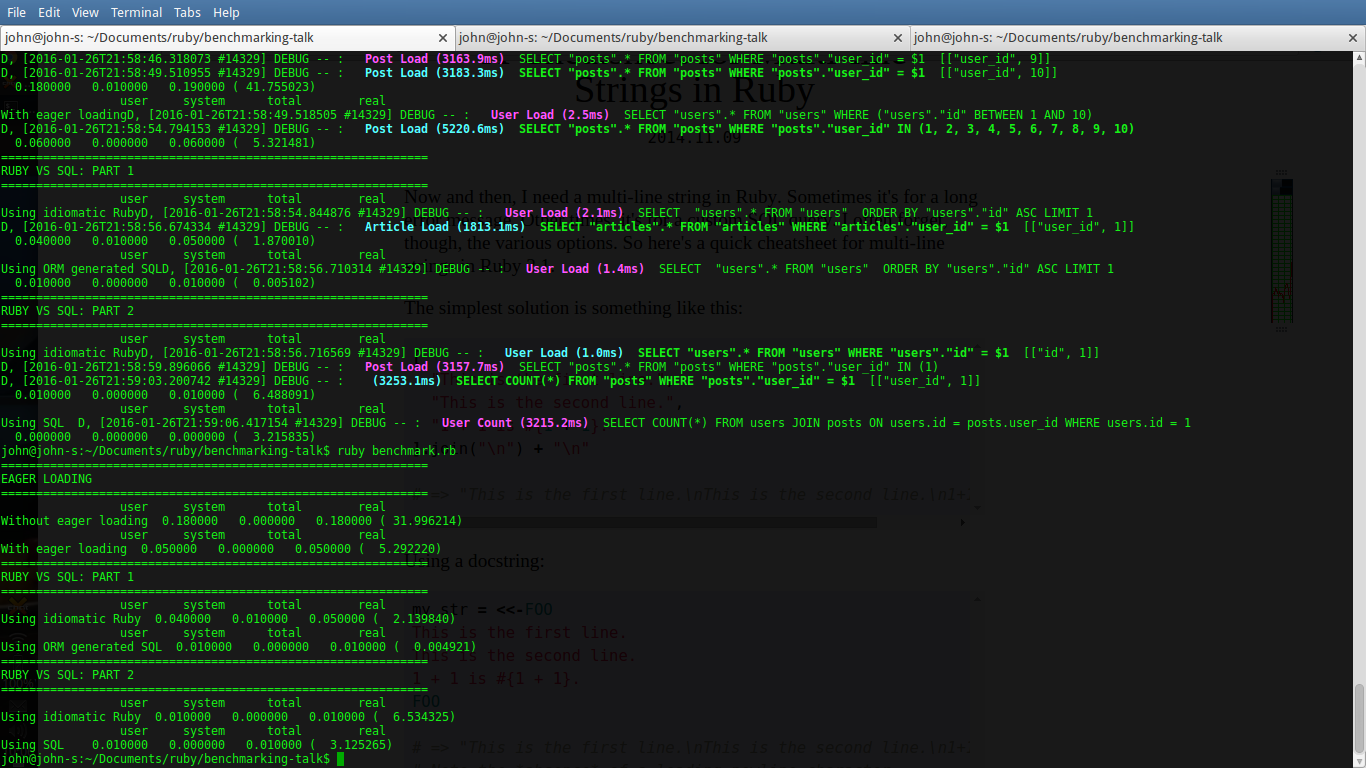
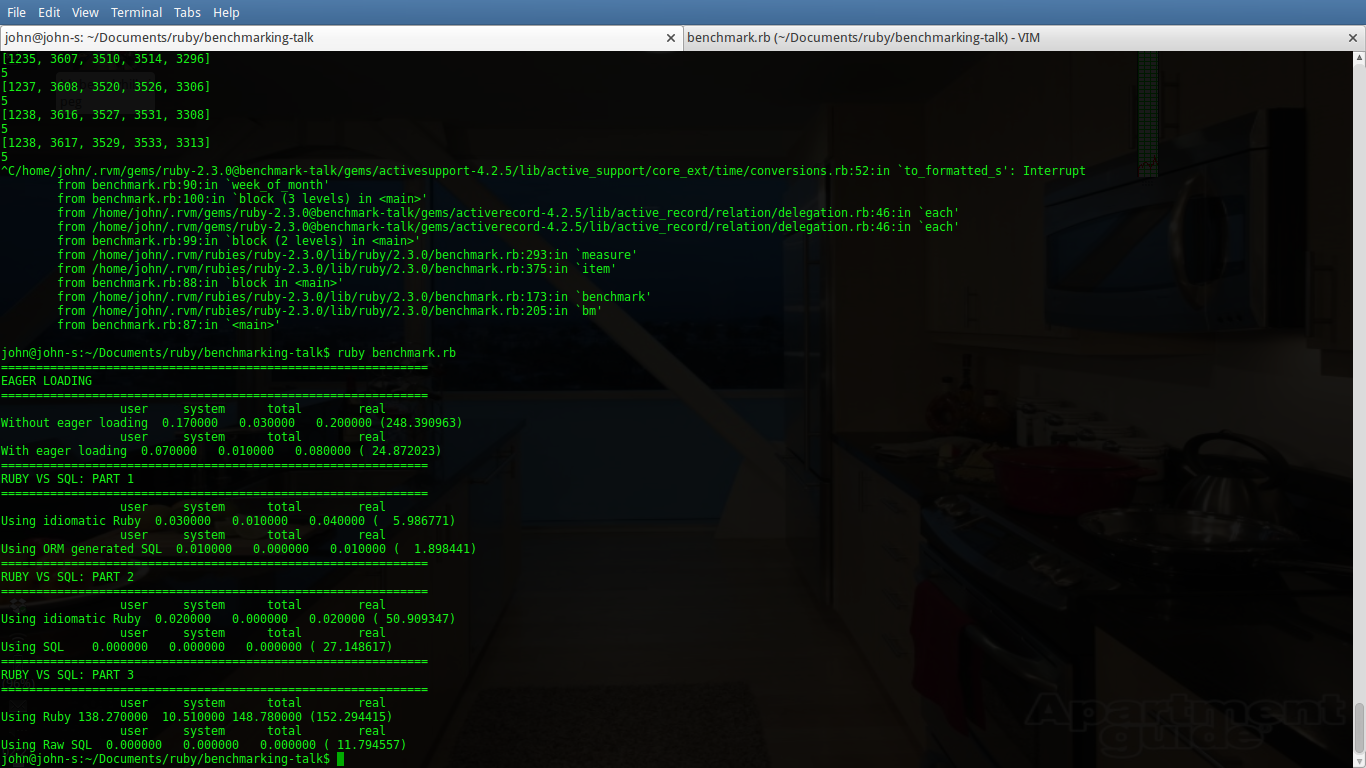
add third example

diff --git a/benchmark.rb b/benchmark.rb
@@ -1,9 +1,8 @@
 require 'benchmark'
+require 'active_support/core_ext/date'
+require 'active_support/core_ext/time'
 require_relative 'models'
 
-#
-# For each user, display their posts 
-#
 def print_header(txt)
   str = [
   '=============================================================',
@@ -13,6 +12,9 @@ def print_header(txt)
   print str + "\n"
 end
 
+#
+# For each user, display their posts 
+#
 print_header 'EAGER LOADING'
 # No eager loading
 Benchmark.bm(10) do |x|
@@ -38,7 +40,6 @@ print_header 'RUBY VS SQL: PART 1'
 # Sort a users' articles by title
 # (Do database work in the database)
 # 
-#
 # Rubyesque way
 Benchmark.bm(10) do |x|
   x.report("Using idiomatic Ruby") {
@@ -50,7 +51,8 @@ end
 # performs about 300% quicker
 Benchmark.bm(10) do |x|
   x.report("Using ORM generated SQL") {
-    User.first.articles.order :title
+    User.first.articles.order(:title => :asc)
+      .each { |a| a.title }
   }
 end
 
@@ -74,5 +76,53 @@ end
 Benchmark.bm(10) do |x|
   x.report("Using SQL") {
     User.count_by_sql ["SELECT COUNT(*) FROM users JOIN posts ON users.id = posts.user_id WHERE users.id = 1"]
+  }
+end
+
+print_header 'RUBY VS SQL: PART 3'
+#
+# Average users created, per month-week
+# 
+# Idiomaticish Ruby.  Takes......ages
+Benchmark.bm(10) do |x|
+  x.report("Using Ruby") {
+    def week_of_month(date)
+      date = Time.parse(date.to_s)
+      wk_of_target_date = date.strftime("%U").to_i
+      wk_of_month_begin = date.beginning_of_month.strftime("%U").to_i
+      wk_of_target_date - wk_of_month_begin 
+    end
+
+    wks_bucket = Array.new 5, 0
+
+    User.where(:created_at => (Date.parse('2015-07-01')..Date.parse('2015-09-01')))
+        .each do |u|
+          wom = week_of_month(u.created_at)
+          begin
+            wks_bucket[wom - 1] += 1
+          rescue NoMethodError => e
+            p wks_bucket
+            p wom
+          end
+        end
+
+    wks_bucket.map! { |w| w / 2 }
+  }
+end
+
+# Raw SQL.  Takes about 12 seconds
+Benchmark.bm(10) do |x|
+  x.report("Using Raw SQL") {
+    query = "
+      select right(sub.mnth_wk, 1), avg(count) from 
+      (
+        select left(to_char(created_at, 'MM-W-YYYY'), 4) as mnth_wk, count(*) 
+        from users 
+        where created_at between TIMESTAMP '2015-07-01' and timestamp '2015-09-01' 
+        group by 1 
+        order by 1
+      ) AS sub
+      group by 1 order by 1"
+    ActiveRecord::Base.connection.execute query
   }
 end
